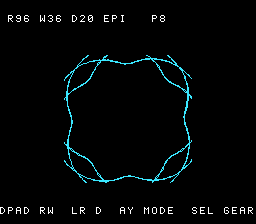
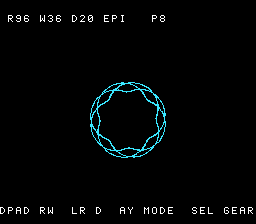
#11 spirograph: tune EPI scale to fit the canvas (golden 0xB8AA->0x32D4)
The epitrochoid's amplitude is R+r (vs R-r for the hypotrochoid), so at the
shared shift its outer lobes ran ~76-88 px from centre and clipped the 64 px
half-canvas. Give EPI its own shift (SPIRO_EPI_SHIFT=10) so the full figure
stays on-canvas — now a clean ring of interlocking loops.

The gate hash shifts with it: 0xB8AA -> 0x32D4 (expected.tsv, the demo
self-verify, dev/spirograph.lua default, docs). Re-verified:
  - dev/run.sh corpus-a16  9/9 (spiro_sim 0x32D4, spiro_ctrl_sim 0x6A26).
  - dev/run.sh spirograph  RESULT PASS (disasm gate, bsnes 3x byte-identical,
    MAME+bsnes screenshots == host 0x32D4).
The hypo/rose/Lissajous figures and the bloom visual are unchanged (the demo
boots HYPO; its screenshot SHA is identical).

diff --git a/examples/65816/spiro.h b/examples/65816/spiro.h
@@ -72,7 +72,8 @@ enum { SPIRO_HYPO = 0, SPIRO_EPI = 1, SPIRO_ROSE = 2, SPIRO_LISSA = 3, SPIRO_NMO
 // exercises every multiply / divide / LUT / rep-sep shape in all four families (a miscompiled op
 // perturbs the hash on the first point). The renderer is unbounded; this only sizes the gate.
 #define SPIRO_K_GATE        32u
-#define SPIRO_SHIFT         9    // hypo/epi: (amp1+amp2)*256 >> 9  -> ~screen-radius px
+#define SPIRO_SHIFT         9    // hypo: (amp1+amp2)*256 >> 9  -> ~screen-radius px
+#define SPIRO_EPI_SHIFT    10    // epi: amp1 = R+r is ~2x larger, so shift one more to stay on-canvas
 #define SPIRO_ROSE_SHIFT   10    // rose: rho*cos product (+-65536) >> 10 -> +-64
 #define SPIRO_LISSA_AMP   110    // lissajous amplitude
 #define SPIRO_LISSA_SHIFT   9
@@ -112,7 +113,7 @@ SPIRO_FN void spiro_derive(uint8_t R, uint8_t r, uint8_t d, uint8_t mode, spiro_
     if (num < 0) num = (int16_t)-num;                 // hypo needs R>r; guard anyway
     p->amp1 = num;
     p->amp2 = (int16_t)d;
-    p->shift = SPIRO_SHIFT;
+    p->shift = (mode == SPIRO_EPI) ? SPIRO_EPI_SHIFT : SPIRO_SHIFT;
     // gear ratio (R-+r)/r as Q8.8, one __udivsi3; dphi = dtheta * ratio
     uint16_t kphi = (uint16_t)(((uint32_t)(uint16_t)num << 8) / r);
     p->da = SPIRO_DT;

diff --git a/examples/snes/spirograph.c b/examples/snes/spirograph.c
@@ -108,7 +108,7 @@ static void app_init(App *a) {
 int main(void) {
   static App a;
   app_init(&a);
-  corpus_result = spiro_gate_crc();                           // self-verify curve math == host 0xB8AA
+  corpus_result = spiro_gate_crc();                           // self-verify curve math == host 0x32D4
   for (;;) {
     controller_poll(&a.pad);
     spiro_view_step(&a.view, controller_held(&a.pad));        // edge/level handling inside

diff --git a/docs/agent-handoff.md b/docs/agent-handoff.md
@@ -35,7 +35,7 @@ licensing rule (datasheets are third-party copyrighted; the release tarball stay
 
 | Branch | Worktree | Task | Status |
 |--------|----------|------|--------|
-| `wt/321-spirograph` | `/home/will/SRC/llvm-mos-65816-spirograph` | #11 **Spirograph (hypotrochoid) compiler-stress demo** ([plan](plans/2026-06-27-11-snes-spirograph-hypotrochoid.md)) | **✅ DONE + verified (2026-06-27).** Hardlink/non-compiler worktree (shares `main`'s prebuilt toolchain via `cp -al`; no `vendor/` rebuild). Four curve families (hypo/epi/rose/Lissajous) bloom into a **NEAR 2bpp bitmap canvas** — new reusable `examples/snes/snesgfx/{bitmap_canvas.h` (set-pixel + Bresenham + capped dirty-tile DMA on BG3)`,text_layer.h` (BG3-cotenant tiled HUD, reuses `font8.h`)} — joypad-interactive with an on-screen `R/W/D/mode/petals` HUD. **No far pointers ⇒ full 5-way bar.** New `examples/65816/spiro.h` (shared curve math: sin/cos-LUT + 16×16→32 `__mulsi3` + gear-ratio `__udiv`), `examples/snes/spirograph.{c,h}`, `tools/spiro-sim.c`, `corpus/{spiro_sim.c` (0xB8AA curve math)`,spiro_ctrl_sim.c` (0x6A26 controller/HUD-format math, the deterministic-scripted equivalent of a JGX replay)}, `dev/spirograph.{sh,lua}`. **Verified:** `dev/run.sh corpus-a16` 9/9 (`host==default==+mos-a16==+mos-xy16` MAME+bsnes), `dev/run.sh spirograph` RESULT PASS (disasm gate `__mulsi3`+`__udiv`+`rep/sep`, bsnes 3× byte-identical, MAME+bsnes screenshots == host). SDK/example-level — no compiler change. **Worktree RETAINED** per policy; **publish to https://biohack.net/spirograph/ pending user OK.** |
+| `wt/321-spirograph` | `/home/will/SRC/llvm-mos-65816-spirograph` | #11 **Spirograph (hypotrochoid) compiler-stress demo** ([plan](plans/2026-06-27-11-snes-spirograph-hypotrochoid.md)) | **✅ DONE + verified (2026-06-27).** Hardlink/non-compiler worktree (shares `main`'s prebuilt toolchain via `cp -al`; no `vendor/` rebuild). Four curve families (hypo/epi/rose/Lissajous) bloom into a **NEAR 2bpp bitmap canvas** — new reusable `examples/snes/snesgfx/{bitmap_canvas.h` (set-pixel + Bresenham + capped dirty-tile DMA on BG3)`,text_layer.h` (BG3-cotenant tiled HUD, reuses `font8.h`)} — joypad-interactive with an on-screen `R/W/D/mode/petals` HUD. **No far pointers ⇒ full 5-way bar.** New `examples/65816/spiro.h` (shared curve math: sin/cos-LUT + 16×16→32 `__mulsi3` + gear-ratio `__udiv`), `examples/snes/spirograph.{c,h}`, `tools/spiro-sim.c`, `corpus/{spiro_sim.c` (0x32D4 curve math)`,spiro_ctrl_sim.c` (0x6A26 controller/HUD-format math, the deterministic-scripted equivalent of a JGX replay)}, `dev/spirograph.{sh,lua}`. **Verified:** `dev/run.sh corpus-a16` 9/9 (`host==default==+mos-a16==+mos-xy16` MAME+bsnes), `dev/run.sh spirograph` RESULT PASS (disasm gate `__mulsi3`+`__udiv`+`rep/sep`, bsnes 3× byte-identical, MAME+bsnes screenshots == host). SDK/example-level — no compiler change. **Worktree RETAINED** per policy; **publish to https://biohack.net/spirograph/ pending user OK.** |
 | `wt/321-trig-phase3` | `/home/will/SRC/llvm-mos-65816-trig-phase2` (dir named `-trig-phase2`; repointed to the phase-3 branch) | #321 **trig compiler-test Phase 2 + Phase 3** — Q2.14 CORDIC: direct `sin/cos/atan/atan2`, derived `tan/asin/acos`, hyperbolic `sinh/cosh/tanh` ([Phase 2](plans/2026-06-26-trig-phase2-q214-cordic.md) · [Phase 3](plans/2026-06-26-trig-phase3-derived-hyperbolic.md)) | **✅ BOTH PHASES DONE + LANDED + PUSHED (2026-06-26).** Hardlink/non-compiler worktree (shares `main`'s prebuilt toolchain via `cp -al`; no `vendor/` rebuild). **Phase 2** = `k_trig16` `0x9446C734` — a fresh Q2.14 CORDIC with **zero arithmetic libcalls** (native-s16 shift-add, the deliberate inverse of Phase 1's s32-libcall payload). **Phase 3** = `k_trig16x` `0x759567C4` — derived `tan/asin/acos` (a Q2.14 divide/sqrt → `__mulsi3`/`__divsi3` fire) + hyperbolic `sinh/cosh/tanh` via **CORDIC hyperbolic mode**; the 32-bit hyperbolic reference derives from the now-compiled `fix16_exp`. Both `host==default==+mos-a16` on **MAME + bsnes-jg** + host cross-width accuracy PASS (CORDIC beats libfixmath on `asin/acos`). New `examples/65816/{cordic16.h,cordic16_tables.h,k_trig16.c,k_trig16x.c}`, `tools/{gen-cordic-tables.py,trig-accuracy.c,trig-accuracy3.c}`, `dev/{k_trig16.sh,k_trig16x.sh}`. Merges `c37660f` (P2) + `4377791` (P3), pushed (`5a424df`). SDK/example-level — no compiler change. **Worktree RETAINED** per policy. |
 | `wt/321-mandel-zoom` | (torn down) | #321 **Mandelbrot ZOOM PYRAMID** (shelved demo) ([plan](plans/2026-06-25-321-mandelbrot-zoom-pyramid.md)) | **🗑 REMOVED from `main` 2026-06-26** (user request; worktree + branch already torn down — see consolidation note above). Deleted the demo, `tools/mandel-bake-pyramid.c`, `platforms/snes-zoom/`, the run scripts, `jgxcheck.cpp` `JGX_ZOOM`, and the orphaned `loopfold-*` discovery scripts. The DEFAULT-8bit matrix-fold miscompile it surfaced is **fixed** (patch `0010`; upstream repro is the self-contained `coalesce-rotate-ac.mir` lit test). Plan + screenshots kept as history. |
 | `wt/321-mandelbrot` | `/home/will/SRC/llvm-mos-65816-mandelbrot` | #321 **beefy SNES Mandelbrot demo** — the first *beefy* `+mos-a16` customer ([plan](plans/2026-06-24-snes-mandelbrot-beefy-demo.md)) | **✅ DONE (2026-06-25), all on the branch — NOT yet merged to `main`.** Hardlink/non-compiler worktree (shares `main`'s prebuilt toolchain; SDK real-copied). A fixed-point Q5.10 Mandelbrot (`examples/65816/mandel.h`, shared by target + a host PNG renderer) driven through four green stages: **T1** differential gate `dev/run.sh k_mandel` (host==default==`+mos-a16`==`+mos-xy16`==`0x820B`, both emulators, `-verify` clean); **T2** on-console render `dev/run.sh mandel-shot` (fat-pixel Mode-1 BG; **real emulator screenshots from BOTH** — bsnes-jg framebuffer dump via `dev/jgxcheck.cpp`, MAME `video:snapshot` under Xvfb — on-screen CRC==host `0x9103`; `+mos-a16`==default pixel-identical); **T3a** `dev/run.sh mandel-far` (Mandelbrot far-stored into HIGH WRAM `$7E2000` via #320 `sta [dp]`, host==`+mos-a16`==`0x820B`); **T3b** `dev/run.sh mandel-mode7` (BIG 128×128 per-pixel via **Mode 7** + one 32 KiB **DMA**, screenshots both emulators, `0x75E8`). **Grew the SNES display HAL** (`platforms/snes/snes.h`: VRAM/BG/DMA/Mode-7 regs + `snes_ppu_reset_blank`), `tools/png_write.h`, `task mandel-mame` (host MAME window). **Docs:** rendering handoff [`handoffs/2026-06-24-snes-graphics-rendering.md`](handoffs/2026-06-24-snes-graphics-rendering.md), how-tos [`investigations/snes-emulator-screenshots.md`](investigations/snes-emulator-screenshots.md) · [`object-oriented-c-and-assembly.md`](investigations/object-oriented-c-and-assembly.md) · [`open-source-snes-libraries.md`](investigations/open-source-snes-libraries.md). Findings: `+mos-a16` is +21% bigger here (Lesson 2, multiply-bound); an all-inlined `+mos-a16` verifier crash (a16-regalloc family; shipped kernels use `noinline mandel_cell`). **Worktree RETAINED** (user policy); nothing on `main` yet — merge/push is user-triggered. |

diff --git a/docs/investigations/plan-index.md b/docs/investigations/plan-index.md
@@ -168,7 +168,7 @@ index-register mode) · `ABI / CC` (calling convention + prior art) · `Crash fi
 | [Fix the far-pointer `G_PHI(p2)` backend gap](../plans/2026-06-26-fix-the-far-pointer-g-phi-p2-backend-gap.md) | A far (addrspace 2) pointer used as a loop induction variable (`for(;n;p++) *p=v;`) forms a `G_PHI` of a far (p2) pointer; the legalizer made `G_PHI` legal only for `{s1,s8,p0,p1}`, not the 32-bit p2, so the backend aborted (`unable to legalize ... G_PHI (p2)`) on valid C — the latent gap noted by the far-memops fix above (why `mem-far.c` is index-style). Fix: `MOSLegalizerInfo::legalizePhi` (`.customFor({PF})` + a `legalizeCustom` arm) custom-legalizes a far-pointer phi to an **s32 phi** — ptrtoint each incoming value in its predecessor, inttoptr the result back to p2 after the phi — the same bridge `legalizePtrAdd`/far load+store use; the s32 phi reuses the standard `narrowScalar`→bytes path. Purely additive (no regression); p3 is memory-only so it can't form a phi. Fork patch `0014` + `dev/regen-patch-0014.sh`. Gated `dev/run.sh far_loop` (far-ptr IV write+read-back of high WRAM `$7E`, `0xC9`, MAME `-Os`/`-O2` + bsnes-jg); the gate uses a runtime (volatile) stride so the far-ptr phi survives indvars at `-Os`/`-O2`, making the compile gate the crash regression-guard. No regression (corpus 7/7, corpus-a16 6/6, far 15 ROMs). | [`d1099db`](https://github.com/wbniv/llvm-mos-65816/commit/d1099db) | Crash fix |
 | [Re-imagine SNES rendering as an OOP-in-C library (`snesgfx`)](../plans/2026-06-26-snes-rendering-oop-library.md) | Express the proven SNES rendering mechanics (force-blank/v-blank access window, DMA uploads, VRAM layout, Mode 7) as a **header-only OOP-in-C library** following the [oop-in-c HOWTO](object-oriented-c-and-assembly.md): an `UploadQueue` (the access-window rule in ONE place), a `VramAlloc` bump allocator, a `Drawable` vtable + heterogeneous `Scene` (the *justified* per-object vtable — coarse dispatch, one indirect call per drawable per frame, never per-tile), concrete `Mode7Layer`/`SpriteSet`/`BgLayer`, and a selector-table joypad dispatch (the cheap dynamic form). Verified by a parallel client `examples/snes/mandel-oop.c` reproducing `mandel-display.c`'s CRC `0x204F` (host==a16@MAME==a16@bsnes-jg, `dev/run.sh mandel-oop`, `-verify-machineinstrs` clean) — zero-regression proof — then **measures** the dispatch cost (disasm: N `__call_indir`/frame not per-tile; OOP-vs-procedural size delta; does C reach `JSR (abs,X)`?) and writes the numbers back into oop-in-c.md §4–§5 (measure, don't assume). Header-only because `dev/build.sh` compiles every `examples/snes/**/*.c` as a standalone program. | [`d5c1448`](https://github.com/wbniv/llvm-mos-65816/commit/d5c1448) | Platform |
 | [Space Invaders on the `snesgfx` OOP library](../plans/2026-06-26-space-invaders-on-the-snesgfx-oop-library.md) | Build a real, playable, on-screen **Space Invaders** on `snesgfx` — driving out the sprite/OAM front-end (`SpriteSet`, previously "not built"), a `TextLayer`/`ShieldField` HUD+shields (`BgLayer`), and a `Controller`. OOP discipline: objects+methods only, an `App` object, the per-object vtable seam **only** at the 3 render layers (entities are static-dispatch objects, never a per-entity vtable in the hot loop). No far pointers ⇒ builds **default + a16 + xy16** = the full 5-way differential. Verified gold-standard: a portable HAL-free `invaders_logic.h` + host oracle `tools/invaders-sim.c` → a deterministic **attract** state-CRC asserted host==default@MAME==a16@MAME==a16@bsnes-jg (`dev/run.sh invaders`) + a corpus 5-way slice + two-emulator screenshots, `-verify-machineinstrs` clean. Assets via the **existing** `gfx4snes` (foundry `pvsneslib-core`): PNG → committed `.pic`/`.pal` → **objcopied to bank-$00 `.rodata` objects** (`-O elf32-mos`, `--rename-section .data=.rodata`) and linked by `dev/build.sh` — no compiled C arrays. P0 (library core + `SpriteSet`) landed: compiles default/a16/xy16, boots both emulators. | [`1d753fe`](https://github.com/wbniv/llvm-mos-65816/commit/1d753fe) | Platform |
-| [#11 — SNES Spirograph (hypotrochoid): (R, r, d) parametric rose curves](../plans/2026-06-27-11-snes-spirograph-hypotrochoid.md) | Demo #11 of the compiler stress-test battery — the sin/cos-LUT + fixed-point-multiply member: four curve families (hypotrochoid/epitrochoid/rose/Lissajous) BLOOM into a **NEAR 2bpp bitmap canvas** (new reusable `snesgfx/bitmap_canvas.h` set-pixel + Bresenham + capped dirty-tile DMA, and `text_layer.h` BG3-cotenant HUD reusing `font8.h`), joypad-interactive with an on-screen `R/W/D/mode/petals` HUD. Shared math `examples/65816/spiro.h` (sin/cos-LUT + two 16×16→32 `__mulsi3` + gear-ratio `__udiv`); **no far pointers ⇒ full 5-way bar.** Verified: `dev/run.sh corpus-a16` 9/9 (`spiro_sim` `0xB8AA` curve math + `spiro_ctrl_sim` `0x6A26` controller/HUD-format math, the deterministic-scripted equivalent of a JGX replay — both `host==default==+mos-a16==+mos-xy16` MAME+bsnes), `dev/run.sh spirograph` RESULT PASS (disasm gate `__mulsi3`+`__udiv`+`rep/sep`, bsnes 3× byte-identical, both screenshots == host). Publish to biohack.net pending user OK. | [`8d0fe7d`](https://github.com/wbniv/llvm-mos-65816/commit/8d0fe7d) | Platform |
+| [#11 — SNES Spirograph (hypotrochoid): (R, r, d) parametric rose curves](../plans/2026-06-27-11-snes-spirograph-hypotrochoid.md) | Demo #11 of the compiler stress-test battery — the sin/cos-LUT + fixed-point-multiply member: four curve families (hypotrochoid/epitrochoid/rose/Lissajous) BLOOM into a **NEAR 2bpp bitmap canvas** (new reusable `snesgfx/bitmap_canvas.h` set-pixel + Bresenham + capped dirty-tile DMA, and `text_layer.h` BG3-cotenant HUD reusing `font8.h`), joypad-interactive with an on-screen `R/W/D/mode/petals` HUD. Shared math `examples/65816/spiro.h` (sin/cos-LUT + two 16×16→32 `__mulsi3` + gear-ratio `__udiv`); **no far pointers ⇒ full 5-way bar.** Verified: `dev/run.sh corpus-a16` 9/9 (`spiro_sim` `0x32D4` curve math + `spiro_ctrl_sim` `0x6A26` controller/HUD-format math, the deterministic-scripted equivalent of a JGX replay — both `host==default==+mos-a16==+mos-xy16` MAME+bsnes), `dev/run.sh spirograph` RESULT PASS (disasm gate `__mulsi3`+`__udiv`+`rep/sep`, bsnes 3× byte-identical, both screenshots == host). Publish to biohack.net pending user OK. | [`8d0fe7d`](https://github.com/wbniv/llvm-mos-65816/commit/8d0fe7d) | Platform |
 
 ---
 

diff --git a/docs/plans/2026-06-27-11-snes-spirograph-hypotrochoid.md b/docs/plans/2026-06-27-11-snes-spirograph-hypotrochoid.md
@@ -15,9 +15,9 @@ tiled **HUD** (`snesgfx/text_layer.h` + `font8.h`) showing the live `R / wheel /
 fields and a control legend, joypad-interactive (D-pad ±R/wheel, L/R ±pen, A/Y mode, Select gear preset,
 Start reset). **No far pointers** ⇒ it builds default-8-bit AND `+mos-a16` AND `+mos-xy16` and earns the
 **full 5-way differential bar**. Two corpus slices carry the proof: `corpus/spiro_sim.c` (the curve math,
-golden **0xB8AA**) and `corpus/spiro_ctrl_sim.c` (the controller + HUD-format math over a scripted pad
+golden **0x32D4**) and `corpus/spiro_ctrl_sim.c` (the controller + HUD-format math over a scripted pad
 sequence, golden **0x6A26**) — both `host == default == +mos-a16 == +mos-xy16` on MAME + bsnes-jg via
-`dev/run.sh corpus-a16` (9/9). The on-screen demo self-verifies `corpus_result == 0xB8AA` and is gated +
+`dev/run.sh corpus-a16` (9/9). The on-screen demo self-verifies `corpus_result == 0x32D4` and is gated +
 screenshotted by `dev/run.sh spirograph`. Shared math is `examples/65816/spiro.h`; the interactive state
 machine is `examples/snes/spirograph.h`. **Decisions vs the original plan:** (1) the controller-math
 differential is a **deterministic-scripted corpus slice** (`spiro_ctrl_sim`) rather than a `JGX_SPIRO`
@@ -339,36 +339,36 @@ Two channels + the corpus slice + screenshots, each a proven pattern:
    prints a stable hash twice.
 
    ```
-   spirograph gate  K=32/mode x 4 modes  hash=0xB8AA
-   spirograph gate  K=32/mode x 4 modes  hash=0xB8AA
+   spirograph gate  K=32/mode x 4 modes  hash=0x32D4
+   spirograph gate  K=32/mode x 4 modes  hash=0x32D4
    ```
-   **PASS** — the shared curve math (`spiro.h`, all four families) folds to a stable golden `0xB8AA`.
+   **PASS** — the shared curve math (`spiro.h`, all four families) folds to a stable golden `0x32D4`.
 
 2. **5-way differential (curve + controller math):** `dev/run.sh corpus-a16`.
 
    ```
-   spiro_sim       PASS  corpus_result=0xB8AA  hypo/epi/rose/lissajous curve-point hash, 32 pts x 4 modes
+   spiro_sim       PASS  corpus_result=0x32D4  hypo/epi/rose/lissajous curve-point hash, 32 pts x 4 modes
    spiro_ctrl_sim  PASS  corpus_result=0x6A26  interactive controller + HUD-format math over a scripted pad seq
    ==> corpus-a16: 9/9 passed, 0 xfail
    ```
    **PASS** — `host == default@MAME == +mos-a16@MAME == +mos-xy16@MAME == +mos-a16@bsnes-jg` for BOTH the
-   curve math (`spiro_sim` `0xB8AA`) and the interactive controller + HUD-format math (`spiro_ctrl_sim`
+   curve math (`spiro_sim` `0x32D4`) and the interactive controller + HUD-format math (`spiro_ctrl_sim`
    `0x6A26`); dual `-verify-machineinstrs` clean; the existing 7 corpus slices unregressed.
 
 3. **On-console render + disasm gate + both-emulator screenshot:** `dev/run.sh spirograph`.
 
    ```
-   ==> host oracle: spirograph curve hash = 0xB8AA
+   ==> host oracle: spirograph curve hash = 0x32D4
    ==> disasm gate (curve hot loop codegen)
-       PASS  __mulsi3=12  __udiv=4  rep/sep=106  (sin/cos-LUT + fixed-point mul + gear divide, native-16)
+       PASS  __mulsi3=12  __udiv=4  rep/sep=104  (sin/cos-LUT + fixed-point mul + gear divide, native-16)
    ==> bsnes-jg: render + framebuffer dump (build/spirograph-jg.png) + assert
-   SMOKE: PASS off=0x137A len=2 got=0xB8AA (ran 500 frames, bsnes-jg)
+   SMOKE: PASS off=0x137A len=2 got=0x32D4 (ran 500 frames, bsnes-jg)
        PASS  3x bsnes-jg capture byte-identical (4693104f...45e1)
    ==> MAME (under Xvfb): snapshot + assert (build/spirograph-mame.png)
-       SHOT: PASS corpus=0xB8AA (snapshot at frame 500)
-   RESULT: PASS — Spirograph rendered on SNES; MAME + bsnes-jg screenshots + curve hash 0xB8AA host == +mos-a16
+       SHOT: PASS corpus=0x32D4 (snapshot at frame 500)
+   RESULT: PASS — Spirograph rendered on SNES; MAME + bsnes-jg screenshots + curve hash 0x32D4 host == +mos-a16
    ```
-   **PASS** — the on-screen `+mos-a16` ROM self-verifies `corpus_result == host 0xB8AA` on **both**
+   **PASS** — the on-screen `+mos-a16` ROM self-verifies `corpus_result == host 0x32D4` on **both**
    emulators; the disasm gate confirms the hot loop is the declared codegen (sin/cos-LUT + `__mulsi3`
    fixed-point multiply + gear-ratio `__udiv` + native-16 `rep`/`sep`); bsnes-jg is 3× byte-identical
    (deterministic); both framebuffer screenshots written.

diff --git a/TODO.md b/TODO.md
@@ -364,9 +364,9 @@ _M0 complete — test bench stands (ROADMAP steps 1–2 PASS). See Done._
   - [x] **#11 Spirograph (hypotrochoid)** — **DONE + verified (`wt/321-spirograph`).** Four curve families
     (hypo/epi/rose/Lissajous) bloom into a NEAR 2bpp bitmap canvas (new `snesgfx/bitmap_canvas.h` set-pixel
     rasterizer + `text_layer.h` HUD), joypad + on-screen `R/W/D/mode/petals` HUD. **No far pointers → full
-    5-way bar:** `dev/run.sh corpus-a16` 9/9 (`spiro_sim` 0xB8AA curve math + `spiro_ctrl_sim` 0x6A26
+    5-way bar:** `dev/run.sh corpus-a16` 9/9 (`spiro_sim` 0x32D4 curve math + `spiro_ctrl_sim` 0x6A26
     controller/HUD-format math, host==default==a16==xy16 MAME+bsnes); `dev/run.sh spirograph` RESULT PASS
-    (disasm gate __mulsi3+__udiv+rep/sep, bsnes 3× byte-identical, MAME+bsnes screenshots == host 0xB8AA).
+    (disasm gate __mulsi3+__udiv+rep/sep, bsnes 3× byte-identical, MAME+bsnes screenshots == host 0x32D4).
     [plan](docs/plans/2026-06-27-11-snes-spirograph-hypotrochoid.md). **Publish to
     https://biohack.net/spirograph/ pending user OK.**
   - [ ] **#13 N-body orbits** — fixed-point mul + 1/r² **division** + integration; shows orbiting bodies + trails.
